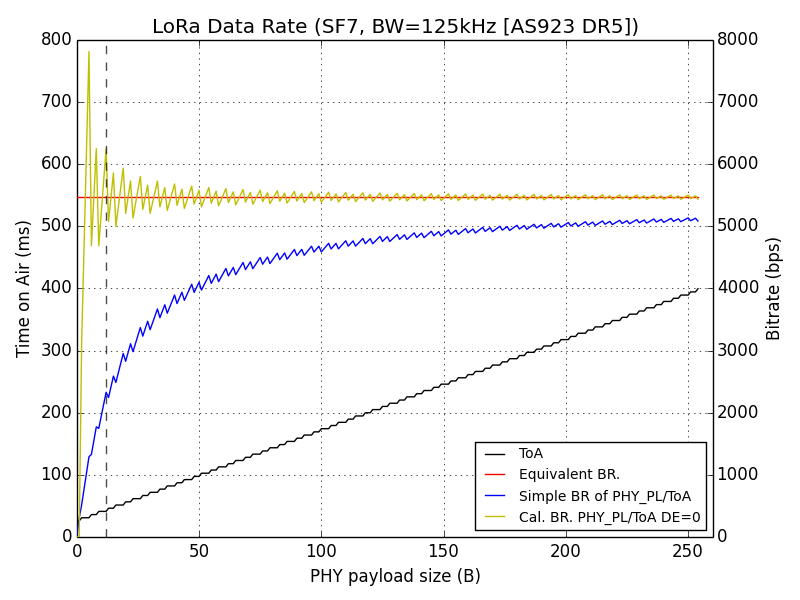
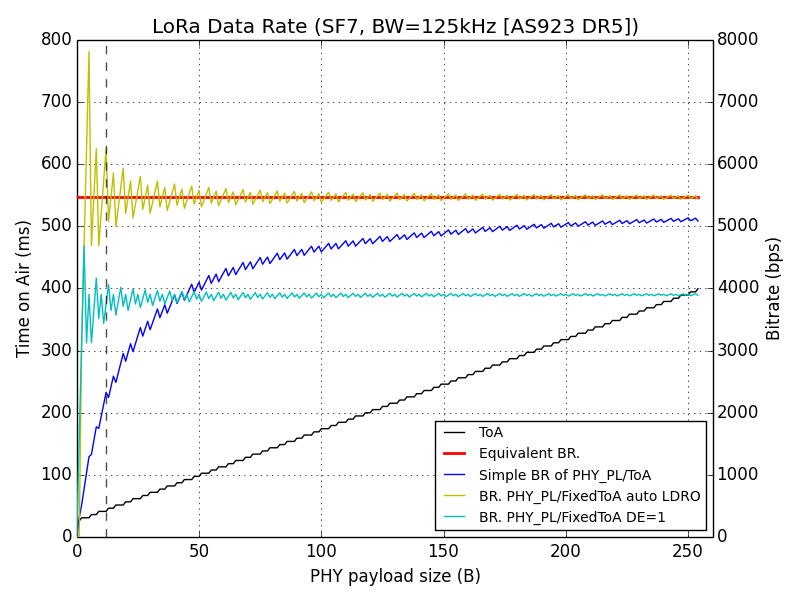
added a fault line.

Changed region(s): [[0.5312, 0.69, 0.9062, 0.9], [0.0938, 0.42, 0.875, 0.6]]

diff --git a/graph_as923_datarate.py b/graph_as923_datarate.py
@@ -21,15 +21,22 @@ def get_y_br(data_size, n_sf, n_bw=125):
     return [ (i*8)/(get_toa(i, n_sf, n_bw=n_bw)["t_packet"]/1000.)
             for i in data_size ]
 
-def get_y_br1(data_size, n_sf, n_bw=125):
+def get_y_br1(data_size, n_sf, n_bw=125,
+              enable_auto_ldro=True, enable_ldro=False):
     if type(data_size) == list:
         ret = []
         for i in data_size:
-            ret.append(get_y_br1(i, n_sf, n_bw=n_bw))
+            ret.append(get_y_br1(i, n_sf, n_bw=n_bw,
+                                 enable_auto_ldro=enable_auto_ldro,
+                                 enable_ldro=enable_ldro))
         return ret
     else:
-        toa0 = get_toa(0, n_sf, n_bw=n_bw)["t_packet"]
-        toa = get_toa(data_size, n_sf, n_bw=n_bw)["t_packet"]
+        toa0 = get_toa(0, n_sf, n_bw=n_bw,
+                       enable_auto_ldro=enable_auto_ldro,
+                       enable_ldro=enable_ldro)["t_packet"]
+        toa = get_toa(data_size, n_sf, n_bw=n_bw,
+                      enable_auto_ldro=enable_auto_ldro,
+                      enable_ldro=enable_ldro)["t_packet"]
         if toa == toa0:
             return 0
         else:
@@ -145,12 +152,16 @@ n_sf = 7
 lines += ax.plot(x_nb_bytes, get_y_toa(x_nb_bytes, n_sf), "k-", label="ToA")
 
 lines += ax2.plot(x_nb_bytes, [ 5468.75 for i in x_nb_bytes ],
-                  "r-", label="Equivalent BR.")
+                  "r-", label="Equivalent BR.", linewidth=2)
 
 lines += ax2.plot(x_nb_bytes, get_y_br(x_nb_bytes, n_sf),
                   "b-", label="Simple BR of PHY_PL/ToA")
 lines += ax2.plot(x_nb_bytes, get_y_br1(x_nb_bytes, n_sf),
-                  "y-", label="Cal. BR. PHY_PL/ToA DE=0")
+                  "y-", label="BR. PHY_PL/FixedToA auto LDRO")
+lines += ax2.plot(x_nb_bytes, get_y_br1(x_nb_bytes, n_sf,
+                                        enable_auto_ldro=False,
+                                        enable_ldro=True),
+                  "c-", label="BR. PHY_PL/FixedToA DE=1")
 
 ax2.axvline(12, color='k', linestyle='--', alpha=0.7)
 
